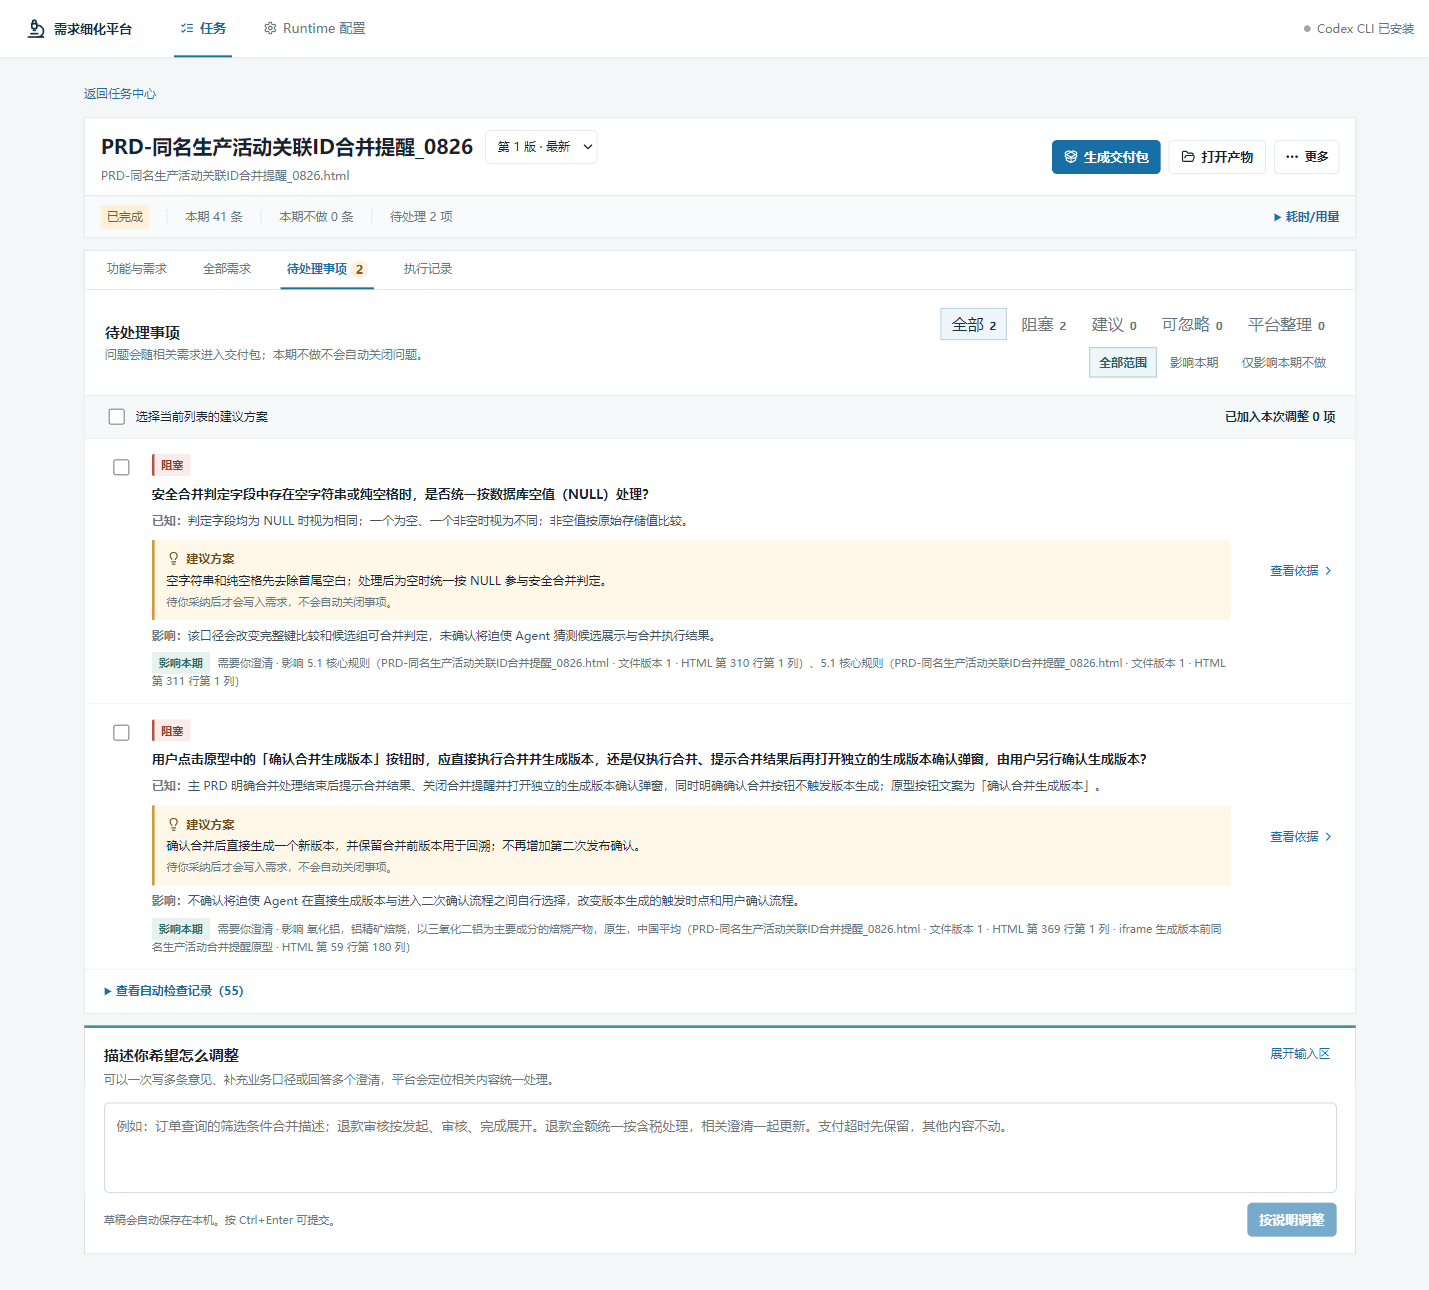
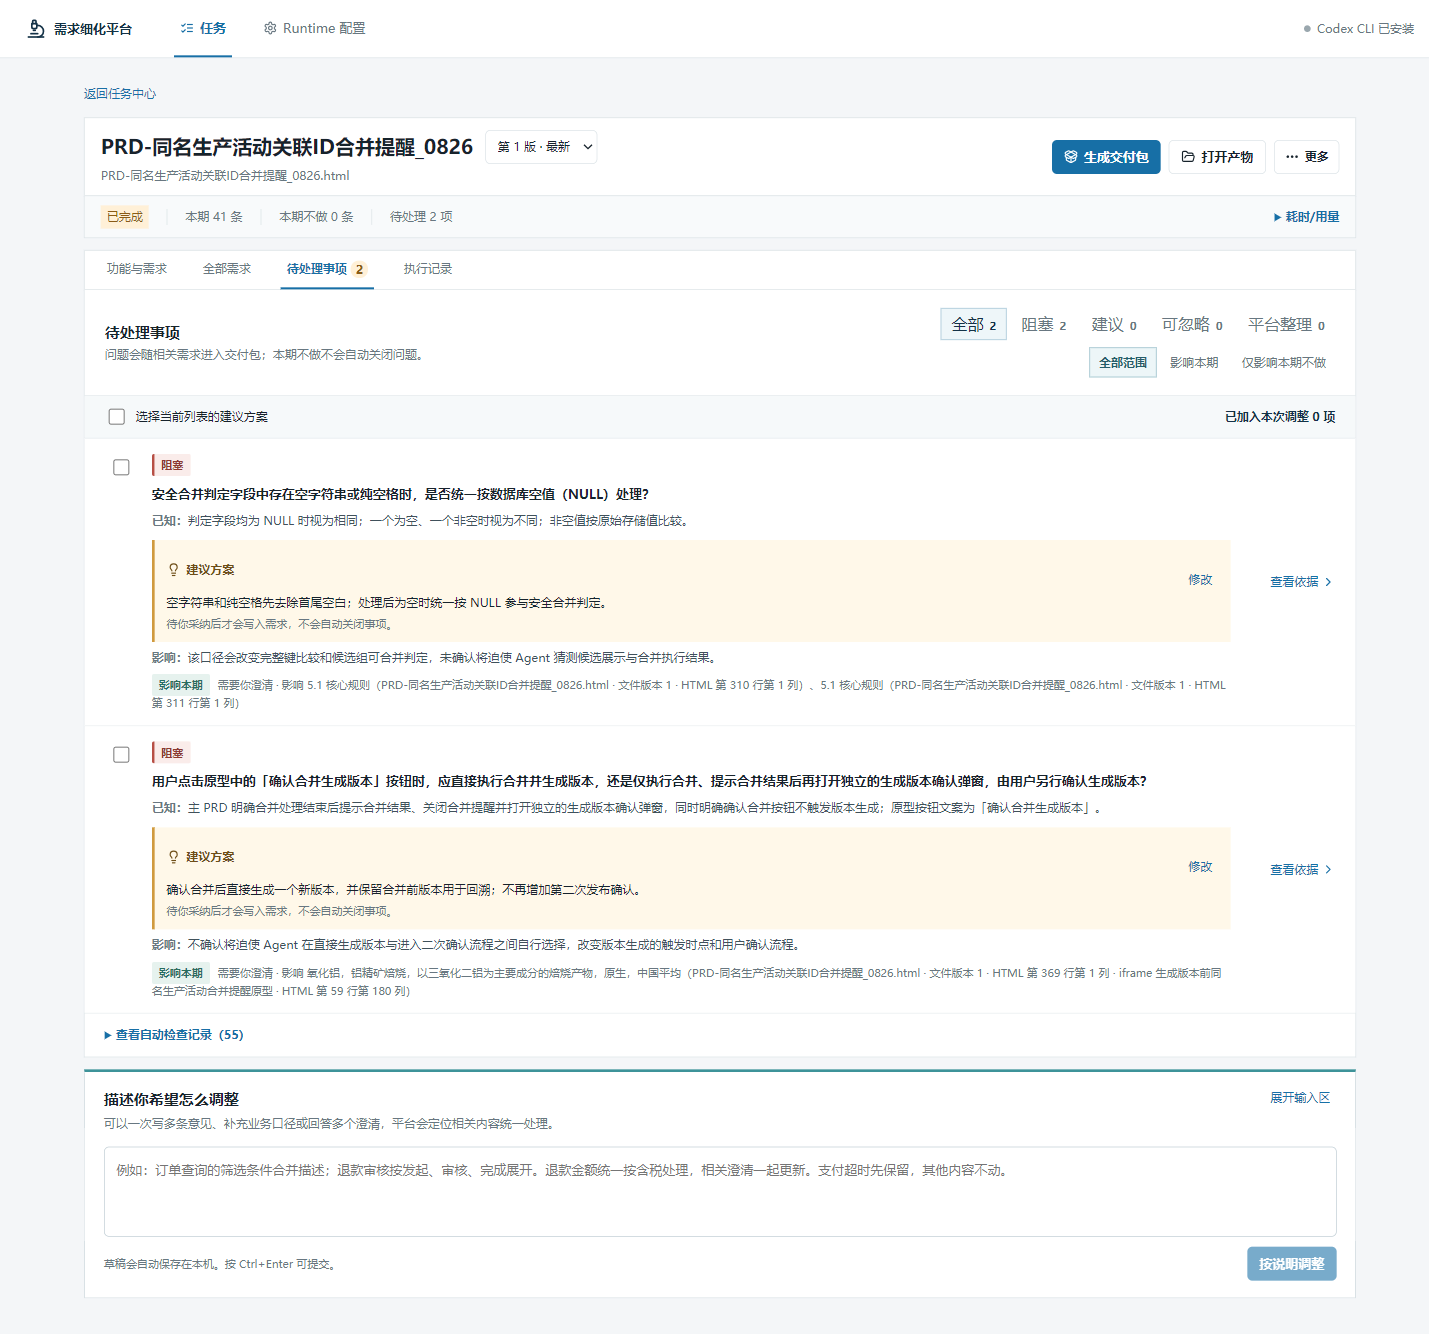
feat: 支持修改阻塞事项建议方案

diff --git a/src/App.tsx b/src/App.tsx
@@ -873,8 +873,10 @@ function TaskPage({
   const [deleting, setDeleting] = useState(false),
     [managing, setManaging] = useState(false);
   const [selectedProposalIds, setSelectedProposalIds] = useState<string[]>([]);
+  const [proposalOverrides,setProposalOverrides]=useState<Record<string,string>>({});
   const [generatingProposals,setGeneratingProposals]=useState(false);
   const rootKey = taskRootId(task);
+  const proposalStorageKey=`prd-proposal-overrides:${task.id}:${taskVersion(task)}`;
   const inScope = task.project.requirements.filter(
       (item) => item.deliveryScope !== "excluded",
     ).length,
@@ -895,7 +897,10 @@ function TaskPage({
     setFeatureFilter(undefined);
     setDetail(undefined);
     setSelectedProposalIds([]);
+    setProposalOverrides({});
   }, [rootKey]);
+  useEffect(()=>{try{const value=window.localStorage.getItem(proposalStorageKey);setProposalOverrides(value?JSON.parse(value):{})}catch{setProposalOverrides({})}},[proposalStorageKey]);
+  useEffect(()=>{try{window.localStorage.setItem(proposalStorageKey,JSON.stringify(proposalOverrides))}catch{/* 本地存储不可用不阻断调整 */}},[proposalStorageKey,proposalOverrides]);
   useEffect(() => {
     void window.prdApp
       .queryAnalysisArtifacts(task.id)
@@ -1091,11 +1096,13 @@ function TaskPage({
         onScope={onScope}
         selectedProposalIds={selectedProposalIds}
         onProposalSelection={setSelectedProposalIds}
+        proposalOverrides={proposalOverrides}
+        onProposalOverride={(id,value)=>setProposalOverrides(current=>{const next={...current};if(value)next[id]=value;else delete next[id];return next})}
         onGenerateProposals={()=>void generateProposals()}
         generatingProposals={generatingProposals}
         now={now}
       />
-      {canAdjust && <TaskFeedback task={task} onAdjust={onAdjust} selectedProposalIds={selectedProposalIds} onProposalSelection={setSelectedProposalIds} />}{" "}
+      {canAdjust && <TaskFeedback task={task} onAdjust={onAdjust} selectedProposalIds={selectedProposalIds} proposalOverrides={proposalOverrides} onProposalSelection={ids=>{setSelectedProposalIds(ids);setProposalOverrides(current=>Object.fromEntries(Object.entries(current).filter(([id])=>ids.includes(id))))}} />}{" "}
       {detail && (
         <Drawer
           project={task.project}
@@ -1288,11 +1295,13 @@ export function TaskFeedback({
   task,
   onAdjust,
   selectedProposalIds = [],
+  proposalOverrides = {},
   onProposalSelection,
 }: {
   task: AnalysisTask;
   onAdjust: (request: AdjustmentRequest) => Promise<void>;
   selectedProposalIds?: string[];
+  proposalOverrides?: Record<string,string>;
   onProposalSelection?: (ids: string[]) => void;
 }) {
   const storageKey = `prd-feedback-draft:${taskRootId(task)}`;
@@ -1323,7 +1332,7 @@ export function TaskFeedback({
       proposalText = selected
         .map(
           (item) =>
-            `关于“${item.question}”，采纳建议方案：${item.resolutionProposal!.recommendation}`,
+            `关于“${item.question}”，采纳建议方案：${proposalOverrides[item.id]??item.resolutionProposal!.recommendation}`,
         )
         .join("\n"),
       feedback = [draft.trim(), proposalText].filter(Boolean).join("\n");
@@ -1398,7 +1407,7 @@ export function TaskFeedback({
       {selectedProposalIds.length > 0 && (
           <div className="selected-proposals">
             <div>
-              <strong>本次将采纳 {selectedProposalIds.length} 项建议方案</strong>
+              <strong>本次将采纳 {selectedProposalIds.length} 项建议方案{Object.keys(proposalOverrides).length?`，其中 ${Object.keys(proposalOverrides).length} 项已修改`:''}</strong>
               <span>可在下方补充例外或修改口径；你输入的说明优先。</span>
             </div>
             <button type="button" className="text-action" onClick={() => onProposalSelection?.([])}>
@@ -1695,6 +1704,8 @@ function Results({
   onScope,
   selectedProposalIds,
   onProposalSelection,
+  proposalOverrides,
+  onProposalOverride,
   onGenerateProposals,
   generatingProposals,
   now,
@@ -1709,6 +1720,8 @@ function Results({
   onScope: (request: DeliveryScopeUpdateRequest) => Promise<void>;
   selectedProposalIds: string[];
   onProposalSelection: (ids: string[]) => void;
+  proposalOverrides: Record<string,string>;
+  onProposalOverride: (id:string,value:string|undefined) => void;
   onGenerateProposals: () => void;
   generatingProposals: boolean;
   now: number;
@@ -1770,6 +1783,8 @@ function Results({
             project={project}
             selectedProposalIds={selectedProposalIds}
             onProposalSelection={onProposalSelection}
+            proposalOverrides={proposalOverrides}
+            onProposalOverride={onProposalOverride}
             onGenerateProposals={onGenerateProposals}
             generating={generatingProposals}
           />

diff --git a/src/ResultIssues.tsx b/src/ResultIssues.tsx
@@ -69,11 +69,13 @@ function evidenceSources(project: PrdProject, item: Item) {
     .filter((item) => !!item.source);
 }
 
-export function ResultIssues({ project, selectedProposalIds = [], onProposalSelection, onGenerateProposals, generating=false }: { project: PrdProject; selectedProposalIds?: string[]; onProposalSelection?: (ids:string[])=>void; onGenerateProposals?:()=>void; generating?:boolean }) {
+export function ResultIssues({ project, selectedProposalIds = [], onProposalSelection, proposalOverrides={}, onProposalOverride, onGenerateProposals, generating=false }: { project: PrdProject; selectedProposalIds?: string[]; onProposalSelection?: (ids:string[])=>void; proposalOverrides?:Record<string,string>; onProposalOverride?:(id:string,value:string|undefined)=>void; onGenerateProposals?:()=>void; generating?:boolean }) {
   const counts = clarificationCounts(project),
     [filter, setFilter] = useState<Filter>("all"),
     [scopeFilter, setScopeFilter] = useState<IssueScopeFilter>("all"),
     [selectedKey, setSelectedKey] = useState<string>(),
+    [editingId,setEditingId]=useState<string>(),
+    [editingText,setEditingText]=useState(''),
     [opener, setOpener] = useState<HTMLElement>();
   const items = useMemo<Item[]>(
     () =>
@@ -220,7 +222,7 @@ export function ResultIssues({ project, selectedProposalIds = [], onProposalSele
                     <b>已知：</b>
                     {facts}
                   </p>
-                  {clarification?.resolutionProposal&&<section className="resolution-proposal"><b><Lightbulb/>建议方案</b><p>{clarification.resolutionProposal.recommendation}</p><small>待你采纳后才会写入需求，不会自动关闭事项。</small></section>}
+                  {clarification?.resolutionProposal&&<section className="resolution-proposal"><header><b><Lightbulb/>建议方案{proposalOverrides[clarification.id]&&<em>已修改</em>}</b>{editingId!==clarification.id&&onProposalOverride&&<button className="text-action" type="button" onClick={()=>{setEditingId(clarification.id);setEditingText(proposalOverrides[clarification.id]??clarification.resolutionProposal!.recommendation)}}>修改</button>}</header>{editingId===clarification.id?<div className="proposal-editor"><textarea aria-label={`修改建议方案：${title}`} rows={3} value={editingText} onChange={event=>setEditingText(event.target.value)}/><footer><button type="button" className="text-action" onClick={()=>setEditingId(undefined)}>取消</button><button type="button" className="secondary" disabled={!editingText.trim()} onClick={()=>{const value=editingText.trim(),original=clarification.resolutionProposal!.recommendation;onProposalOverride?.(clarification.id,value===original?undefined:value);if(!selectedSet.has(clarification.id))onProposalSelection?.([...selectedProposalIds,clarification.id]);setEditingId(undefined)}}>保存并加入本次调整</button></footer></div>:<p>{proposalOverrides[clarification.id]??clarification.resolutionProposal.recommendation}</p>}<small>待你采纳后才会写入需求，不会自动关闭事项。</small></section>}
                   <p>
                     <b>影响：</b>
                     {impact}

diff --git a/tests/app.spec.ts b/tests/app.spec.ts
@@ -70,7 +70,7 @@ describe('需求细化数据契约', () => {
 
   it('待处理事项首屏直接显示问题、已知事实和影响',()=>{
     const project={features:[],requirements:[],sourceUnits:[],clarifications:[{id:'Q-1',question:'退款金额是否含税？',reason:'原文未明确',level:'blocking',knownFacts:'退款金额来自原订单。',unresolvedPoint:'税额口径未确定。',impact:'会影响退款金额计算。',levelReason:'阻塞金额实现。',resolutionProposal:{recommendation:'退款金额按原订单含税实付金额计算。',rationale:'退款基数来自原订单，沿用实付口径可保持账务一致。',impact:'退款金额包含原订单税额。',confirmation:'确认退款采用含税实付口径。',alternatives:[],sourceRefs:[]},affectedIds:[],state:'open'}]} as any;
-    const html=renderToStaticMarkup(React.createElement(ResultIssues,{project,selectedProposalIds:[],onProposalSelection:()=>undefined}));
+    const html=renderToStaticMarkup(React.createElement(ResultIssues,{project,selectedProposalIds:[],onProposalSelection:()=>undefined,onProposalOverride:()=>undefined}));
     expect(html).toContain('退款金额是否含税？');
     expect(html).toContain('退款金额来自原订单。');
     expect(html).toContain('会影响退款金额计算。');
@@ -78,6 +78,7 @@ describe('需求细化数据契约', () => {
     expect(html).toContain('退款金额按原订单含税实付金额计算。');
     expect(html).toContain('待你采纳后才会写入需求');
     expect(html).toContain('选择当前列表的建议方案');
+    expect(html).toContain('修改');
     expect(html).not.toContain('填写答案');
     expect(html).not.toContain('处理方式');
   });
@@ -90,8 +91,8 @@ describe('需求细化数据契约', () => {
 
   it('任务级入口一次提交已选择的建议方案且允许补充例外',()=>{
     const task={id:'T-1',resultVersion:2,status:'completed',project:{features:[],requirements:[],sourceUnits:[],clarifications:[{id:'Q-1',question:'退款金额是否含税？',state:'open',resolutionProposal:{recommendation:'退款金额按原订单含税实付金额计算。'}}]}} as unknown as AnalysisTask;
-    const html=renderToStaticMarkup(React.createElement(TaskFeedback,{task,onAdjust:async()=>undefined,selectedProposalIds:['Q-1'],onProposalSelection:()=>undefined}));
-    expect(html).toContain('本次将采纳 1 项建议方案');expect(html).toContain('你输入的说明优先');expect(html).toContain('按所选方案调整（1）');
+    const html=renderToStaticMarkup(React.createElement(TaskFeedback,{task,onAdjust:async()=>undefined,selectedProposalIds:['Q-1'],proposalOverrides:{'Q-1':'退款金额按不含税金额计算。'},onProposalSelection:()=>undefined}));
+    expect(html).toContain('本次将采纳 1 项建议方案，其中 1 项已修改');expect(html).toContain('你输入的说明优先');expect(html).toContain('按所选方案调整（1）');
   });
 
   it('草稿存储不可用时不阻断页面',()=>{

diff --git a/src/styles.css b/src/styles.css
@@ -58,4 +58,5 @@ textarea:focus-visible{outline:2px solid #65a8ce;outline-offset:2px}
 .task-feedback textarea{resize:none}
 .proposal-toolbar{display:flex;align-items:center;justify-content:space-between;gap:16px;padding:10px 20px;border-bottom:1px solid var(--line);background:#f6f9fa;font-size:12px}.proposal-toolbar label{display:flex;align-items:center;gap:8px;cursor:pointer}.proposal-toolbar input,.proposal-select input{width:16px;height:16px;accent-color:var(--cyan)}.proposal-toolbar strong{color:var(--navy)}.issue-list .issue-row:has(.proposal-select){grid-template-columns:32px minmax(0,1fr) 90px}.proposal-select{display:grid;place-items:center;padding-top:3px}.issue-row>div>.issue-level{margin-bottom:8px}.resolution-proposal{margin-top:10px;padding:11px 12px;border-left:3px solid #d09a3e;background:#fff8e9}.resolution-proposal>b{display:flex;align-items:center;gap:6px;color:#6e4e18;font-size:12px}.resolution-proposal>b svg{width:14px;height:14px}.resolution-proposal p{margin-top:5px;color:var(--ink)}.resolution-proposal small{margin-top:5px!important}.drawer-proposal{margin:16px 0;padding:2px 14px 12px;border-left:3px solid #d09a3e;background:#fff8e9}.selected-proposals{display:flex;align-items:center;justify-content:space-between;gap:16px;margin:0 0 10px;padding:10px 12px;background:#fff8e9;border-left:3px solid #d09a3e}.selected-proposals strong,.selected-proposals span{display:block;font-size:12px}.selected-proposals span{margin-top:3px;color:var(--muted)}.selected-proposals .text-action{flex:none;margin:0}
 .proposal-missing{display:flex;align-items:center;justify-content:space-between;gap:16px;padding:11px 20px;border-bottom:1px solid #ead5ad;background:#fff8e9}.proposal-missing strong,.proposal-missing span{display:block;font-size:12px}.proposal-missing span{margin-top:3px;color:var(--muted)}
+.resolution-proposal>header{display:flex;align-items:center;justify-content:space-between;gap:12px}.resolution-proposal>header b{display:flex;align-items:center;gap:6px;color:#6e4e18;font-size:12px}.resolution-proposal>header svg{width:14px;height:14px}.resolution-proposal>header em{padding:2px 5px;background:#f0dfba;color:#70501c;font-size:10px;font-style:normal}.proposal-editor textarea{display:block;width:100%;margin-top:8px;padding:9px 10px;border:1px solid #c7ad78;background:#fff;font:12px/1.65 "Microsoft YaHei UI",sans-serif;color:var(--ink);resize:vertical}.proposal-editor textarea:focus{outline:2px solid #d6b66f;outline-offset:1px}.proposal-editor footer{display:flex;justify-content:flex-end;gap:8px;margin-top:8px}.proposal-editor .text-action{margin:0}
 @media(max-width:1180px){.proposal-toolbar{align-items:flex-start;flex-direction:column}.issue-list .issue-row:has(.proposal-select){grid-template-columns:30px minmax(0,1fr) 82px}.selected-proposals{align-items:flex-start}}

diff --git a/DESIGN.md b/DESIGN.md
@@ -64,6 +64,8 @@ components:
 
 每个新生成的阻塞业务事项必须在正文内同时显示一条可直接采纳的建议方案，并明确它尚未确认。用户可勾选当前列表中的多条方案，在任务级调整区一次提交；调整区允许补充例外，用户输入优先。推荐依据、采纳影响、需要确认的决定和至多两个备选放在同一事项的详情抽屉。建议方案在采纳并重新生成通过前不得改写需求或关闭事项。
 
+用户可按需原地修改单条建议，默认不展开编辑器。保存修改时自动将该项加入本次调整，并在统一调整区标记已修改数量；未修改事项仍可批量直接采纳。修改草稿按任务结果版本保存在本机，切换版本不会沿用旧稿。
+
 任务中心分为当前任务和已归档任务。归档与恢复保留完整任务族；删除使用应用内警告对话框，先聚焦“保留任务”，显示任务名、真实版本数和删除范围。运行中的归档或删除按钮明确说明会先停止执行，所有失败在当前行或任务页就地显示。
 
 平台问题先基于完整相关原文和同功能需求确认成立，再进入对应责任节点。局部复核分别展示原目标、候选回归和旁支发现；原目标完成且无回归时保留修改，旁支发现另行处理，避免用户看到平台对同一内容重复整理。

diff --git a/UX-CONTRACT.md b/UX-CONTRACT.md
@@ -49,6 +49,7 @@
 - 任务级调整输入在功能与需求、全部需求、待处理事项和执行记录之间共享；切换视图不得清空草稿。提交支持按钮和 Ctrl+Enter，空输入不创建任务。
 - 待处理事项的首屏必须能读到具体问题、已知事实和影响；打开详情只用于查看分级依据、影响对象与原文证据，不出现逐项回答表单。
 - 阻塞业务事项同时展示可直接采纳的建议方案及“尚未确认”状态。列表支持选择当前筛选结果与批量加入任务级调整；不得要求用户逐项打开表单。详情抽屉展示建议依据、采纳影响、确认点和少量备选。
+- 建议方案允许按需原地修改；编辑器默认收起，保存后自动加入统一调整，并显示已修改状态。修改稿绑定当前结果版本并保存在本机。
 - 每次分析保存输入 revision、attempt 和候选内容/功能级检查点；候选检查与返工预算同时保存。Runtime 进程退出不删除已验收结果。
 - 取消分析时使当前 attempt 失效并结束 Runtime；迟到结果不能提交到已取消任务。
 - 导入项目保存在 Electron userData 下，写入前保持结构完整。

diff --git a/docs/acceptance/blocking-item-proposals/report.md b/docs/acceptance/blocking-item-proposals/report.md
@@ -4,4 +4,6 @@
 
 用户可在列表连续勾选多项建议，并通过唯一的任务级调整入口一次提交；补充文字优先于所选建议。未采纳建议不会修改需求或关闭事项，交付包与 Excel 均明确标记建议尚未确认。
 
+单条建议支持按需原地修改。修改稿按结果版本保存在本机，保存后自动加入本次调整，未修改事项仍保持批量操作。
+
 验证结果以 `matrix.csv` 和 `round-1.md` 为准。

diff --git a/docs/acceptance/blocking-item-proposals/round-1.md b/docs/acceptance/blocking-item-proposals/round-1.md
@@ -4,4 +4,4 @@
 - `npm test -- --run`：20 个测试文件、183 个测试全部通过。
 - `npm run build`：通过。
 - `npm run verify:premium`：通过。
-- Electron 真实渲染截图：`issues-1440.png`、`selected-1440.png`、`drawer-1440.png`、`selected-1100.png`。
+- Electron 真实渲染截图：`issues-1440.png`、`editing-1440.png`、`selected-1440.png`、`drawer-1440.png`、`selected-1100.png`。
